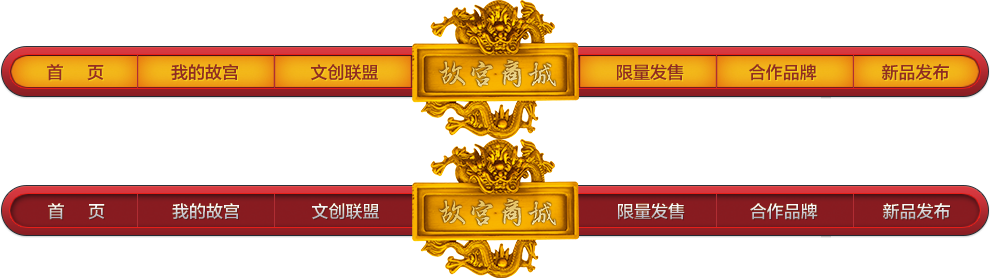
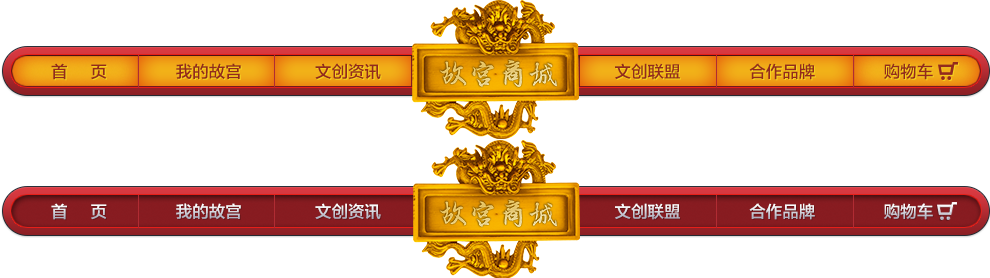
update: change the position of links

Changed region(s): [[0.0, 0.4892, 1.0, 1.0], [0.4242, 0.1727, 1.0, 0.3741], [0.0, 0.1727, 0.4242, 0.3741]]

diff --git a/content/themes/gugong/css/style.css b/content/themes/gugong/css/style.css
@@ -10,9 +10,12 @@ body{
 }
 .top_bar{
 	height: 43px;
-	padding: 0 105px;
+	padding: 0 115px;
 	font-size: 12px;
 	background: url(../images/top_bar.jpg) no-repeat;
+}
+.top_bar a{
+	color: #f8dcac;
 }
 .header{
 	height: 150px;
@@ -27,9 +30,6 @@ body{
 .top_right{
 	float: right;
 	padding-top: 5px;
-	color: #f8dcac;
-}
-.top_right a{
 	color: #f8dcac;
 }
 .top_right span{

diff --git a/content/themes/gugong/header.php b/content/themes/gugong/header.php
@@ -61,23 +61,19 @@ $current_user = wp_get_current_user();
 <div class="wrap">
 	
 	<div class="top_bar base-clear">
-		<div class="top_left"><?php echo $current_user->ID==0 ? '亲' : $current_user->display_name; ?>，欢迎您来到故宫商城！</div>
+		<div class="top_left">
+				<?php if ($current_user->ID==0){ ?>
+				亲，欢迎您来到故宫商城！<a href="/account?login">登录</a> | <a href="/account?reg">注册</a>
+				<?php }else{ ?>
+				<?=$current_user->display_name;?>，欢迎您来到故宫商城！<a href="<?php echo wp_logout_url( get_permalink( wc_get_page_id( 'shop' ) ) )?>"?>退出</a>
+				<?php } ?>
+		</div>
 		<div class="top_right">
 			<span id="searchBox">
 				<form id="header_search" action="/search/" method="get">
 					<input id="search-text" class="search" type="text" name="s" />
 					<input class="search_btn" type="submit" value="" />
 				</form>
-			</span>
-			<span>
-				<?php if ($current_user->ID==0){ ?>
-				<a href="/account?login">登录</a> | <a href="/account?reg">注册</a>
-				<?php }else{ ?>
-				<a href="<?php echo wp_logout_url( get_permalink( wc_get_page_id( 'shop' ) ) )?>"?>退出</a>
-				<?php } ?>
-			</span>
-			<span>
-				<a id="shop" href="/cart">您的购物车</a>
 			</span>
 		</div>
 	</div>
@@ -101,7 +97,7 @@ $header_css = implode(' ', $header_css);
 				<li class="c_nav"></li>
 				<li><a class="nav4" href="#"></a></li>
 				<li><a class="nav5" href="#"></a></li>
-				<li><a class="nav6" href="#"></a></li>
+				<li><a class="nav6" href="/cart"></a></li>
 			</ul>
 		</div>
 	</div>
